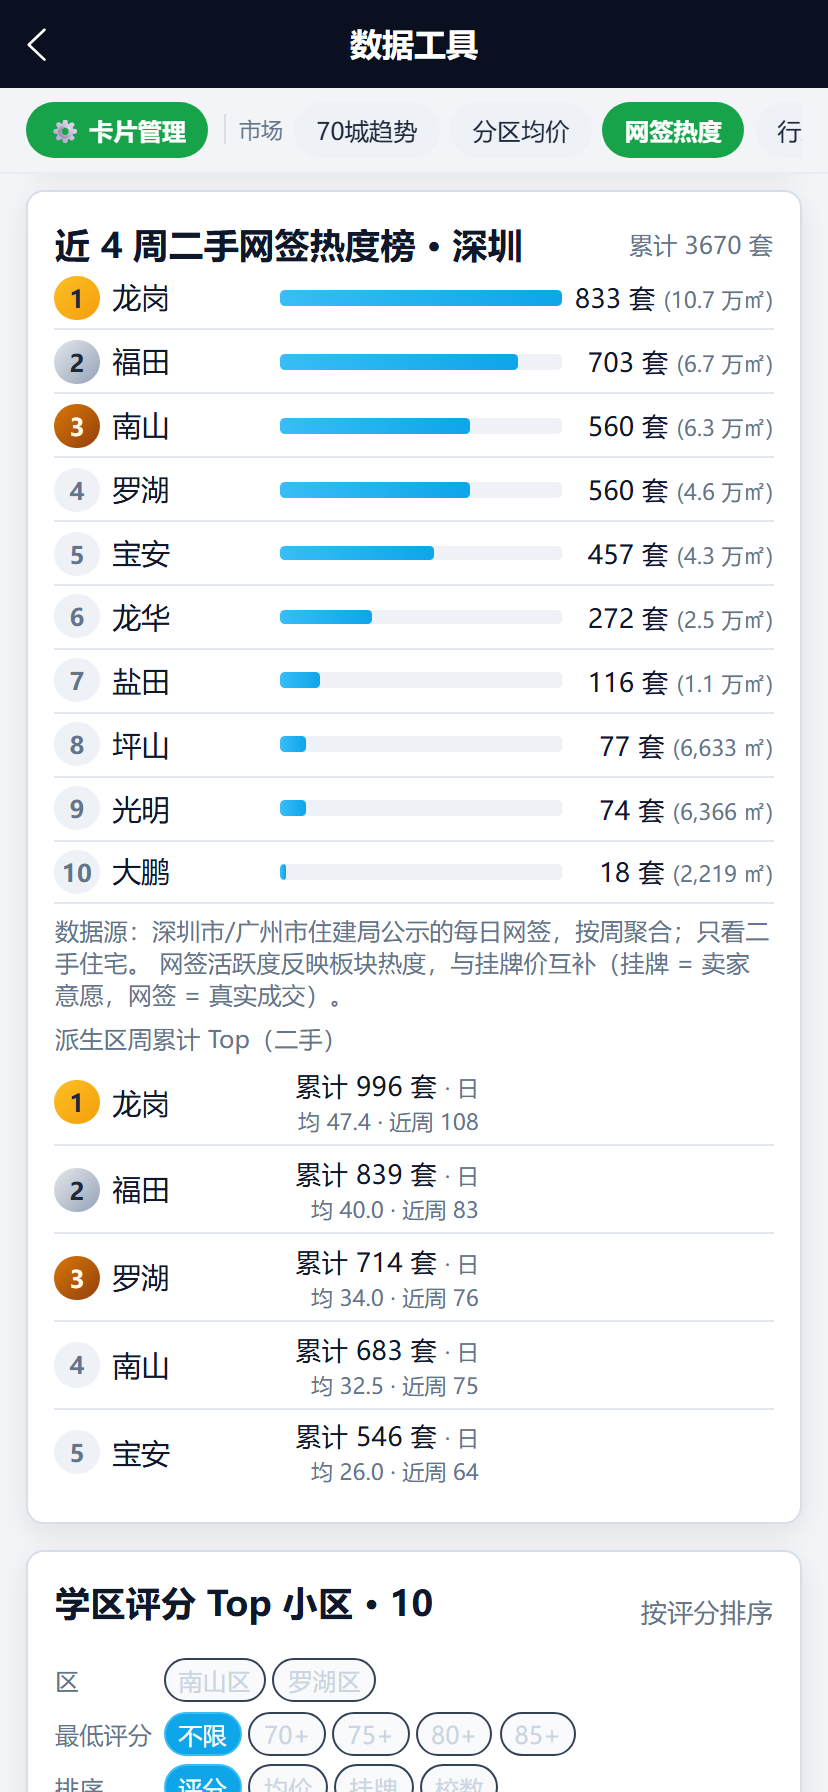
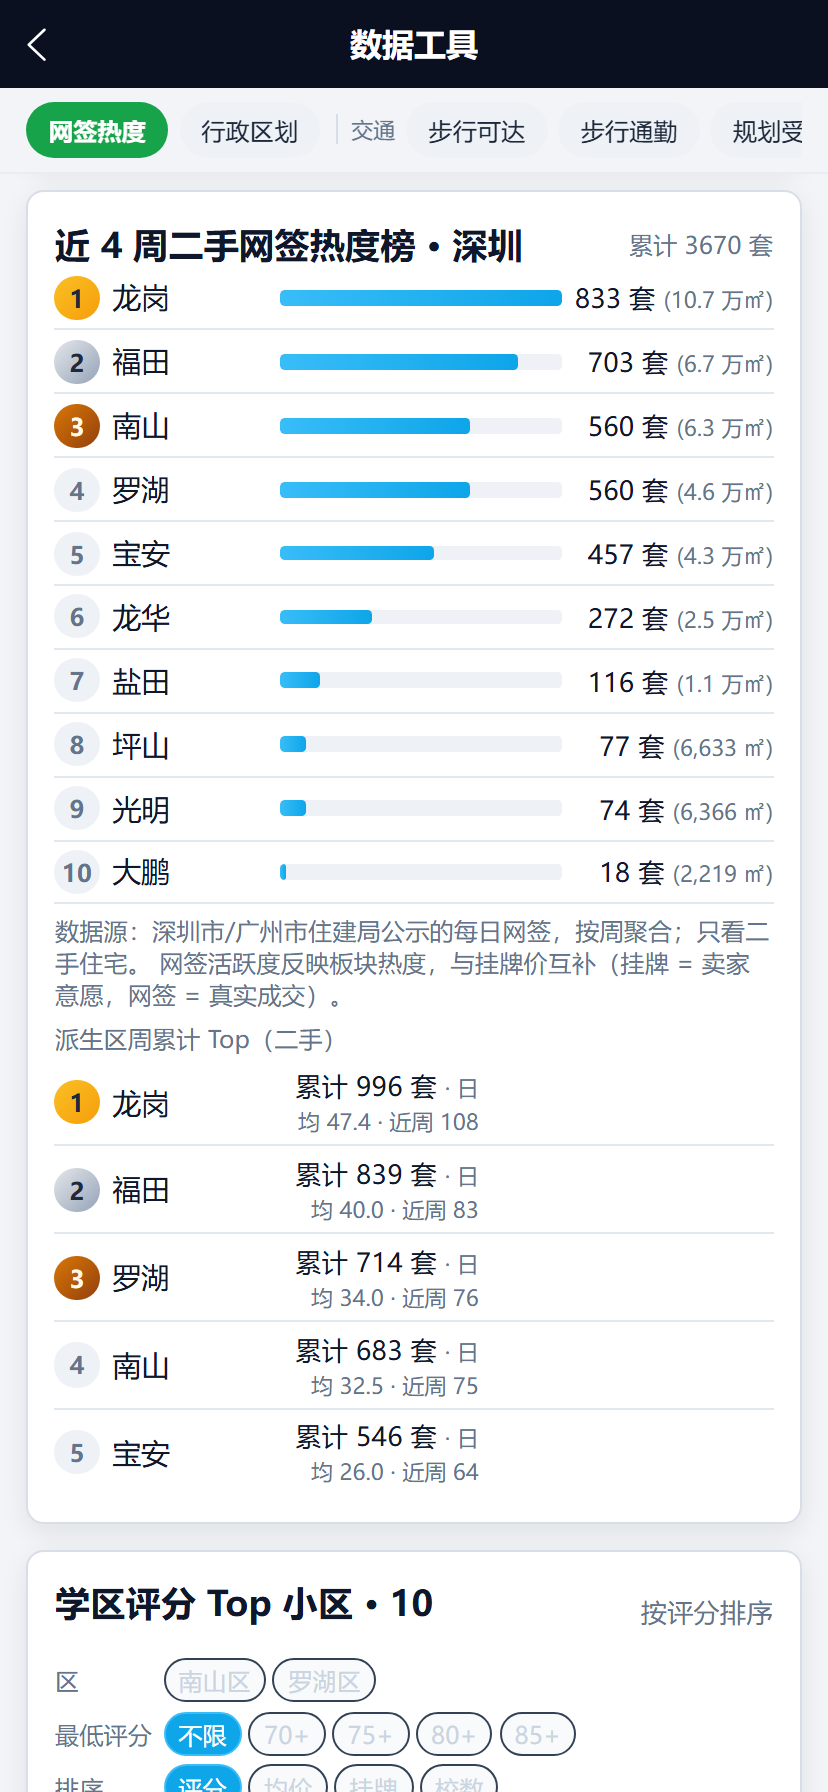
feat(data-tools): v1.123.5 高亮 chip 自动横滚进可视区
- chip 加 id="dt-nav-chip-<anchor>"，watch(activeDtAnchor) 把
  scroll-view 的 scroll-into-view 指向高亮 chip，导航条即时横滚跟随
- 不开 scroll-with-animation：uni-h5 动画实现是 transform + 动画期
  overflow hidden，反选连续点火会反复锁横滚（e2e 实测点击被锁）
- FEATURE_CATALOG F-DTOOLS-01 期望 +1
- ext smoke_data_tools_nav：纯滚动反选用例加「初始视口外 → 反选后
  完整落入导航视口」断言（实测 [355,426]→[13,84] vs 视口 [13,401]）
- 验证：type-check 0 / extended 9/9 / core 13/13 / unit 1457 全绿

Changed region(s): [[0.3925, 0.0312, 0.9662, 0.0938], [0.0604, 0.0312, 0.3623, 0.0938]]

diff --git a/realty_app/src/pages/data-tools/data-tools.vue b/realty_app/src/pages/data-tools/data-tools.vue
@@ -8,7 +8,12 @@
 
       <!-- v1.123.3 锚点分组导航：17 张卡（16 迁移 + 行政区划）按主题分组，点击 chip 滚动到对应卡 -->
       <view class="dt-nav" data-dt-nav>
-        <scroll-view scroll-x class="dt-nav-scroll" :show-scrollbar="false">
+        <scroll-view
+          scroll-x
+          class="dt-nav-scroll"
+          :show-scrollbar="false"
+          :scroll-into-view="dtNavScrollInto"
+        >
           <view class="dt-nav-row">
             <button
               class="dt-nav-chip dt-nav-chip--tool"
@@ -22,6 +27,7 @@
               <button
                 v-for="it in g.items"
                 :key="it.anchor"
+                :id="'dt-nav-chip-' + it.anchor"
                 class="dt-nav-chip"
                 :class="{ 'dt-nav-chip--active': activeDtAnchor === it.anchor }"
                 size="mini"
@@ -1718,6 +1724,15 @@ function teardownDtScrollSpy() {
     _dtSpyRaf = 0;
   }
 }
+
+// v1.123.5 高亮 chip 自动横滚进可视区：active 变化时把 scroll-view 的
+// scroll-into-view 指向对应 chip（同值不重复触发，watch 只在变化时点火）。
+// 不开 scroll-with-animation：uni-h5 动画实现是 transform + 动画期 overflow hidden，
+// 滚动反选连续点火会反复锁横滚，即时跳转更稳。
+const dtNavScrollInto = ref("");
+watch(activeDtAnchor, (a) => {
+  dtNavScrollInto.value = a ? `dt-nav-chip-${a}` : "";
+});
 
 // v1.121.143 Batch 5: feature_premium (迁移自 dashboard)
 const featurePremium = ref<FeaturePremiumResponse | null>(null);

diff --git a/realty_app/src/config.ts b/realty_app/src/config.ts
@@ -12,7 +12,7 @@ export const DEFAULT_API_BASE_URL = "http://localhost:8000";
 
 export const APP_NAME = "Realty App";
 // 与 src/manifest.json 的 versionName 同步；CI 出包时会自动覆写
-export const APP_VERSION = "1.123.4";
+export const APP_VERSION = "1.123.5";
 
 export const STORAGE_KEYS = {
   apiBaseUrl: "realty_app.apiBaseUrl",

diff --git a/realty_app/README.md b/realty_app/README.md
@@ -10,6 +10,7 @@
 
 | 版本 | 发布日期 | 说明 |
 |------|----------|------|
+| v1.123.5 | 2026-11-03 | 数据工具导航高亮 chip 自动横滚：v1.123.4 滚动反选后，纯滚动到右侧组（学区/挂牌）时高亮 chip 仍停在横滚条可视区外看不到反馈 → chip 加 `id="dt-nav-chip-<anchor>"`，`watch(activeDtAnchor)` 把 scroll-view 的 `scroll-into-view` 指向高亮 chip，导航条即时横滚跟随（不开 `scroll-with-animation`：uni-h5 动画实现是 transform + 动画期 overflow hidden，反选连续点火会反复锁横滚；watch 只在变化时点火，同值无抖动）；FEATURE_CATALOG F-DTOOLS-01 期望 +1，ext `smoke_data_tools_nav` 新增「初始在视口外 → 反选后完整落入导航视口」真实断言（versionCode 340） |
 | v1.123.4 | 2026-11-03 | 数据工具页导航滚动反选高亮：v1.123.3 的锚点导航缺「当前位置」反馈 → chip 新增 `dt-nav-chip--active` 主色高亮；H5 端 window scroll + rAF 节流，每次重查 17 个锚点卡（适配 v-if 动态渲染），取「吸顶导航底+8px ~ 视口 60%」带状区最靠上的卡置为 active；点击 chip 即高亮、smooth scroll 中反选接管；keep-alive 场景 onShow 补挂监听、onHide/onUnmounted 摘除（避免其它页白跑）；FEATURE_CATALOG F-DTOOLS-01 期望 +1，ext `smoke_data_tools_nav` 新增点击高亮 + 纯滚动反选真实断言（versionCode 339） |
 | v1.123.3 | 2026-11-03 | 数据工具页锚点分组导航：17 张 `[data-dt-*]` 卡（Batch 1-6 迁入 16 张 + 行政区划）页面过长难定位 → 页头下新增吸顶横滚导航 `[data-dt-nav]`，按「市场/交通/学区/挂牌」四组 chip + ⚙ 卡片管理，点击平滑滚动到对应卡；吸顶用 `top: var(--window-top)` 让出 uni-page-head；滚动定位自算 scrollTop（实测 uni-h5 的 `pageScrollTo` 不透传 `offset`），扣除 page-head + 吸顶导航高度 + 8px 呼吸位，卡顶不被遮挡；目标卡无数据（v-if 未渲染）时 toast 提示不静默失败；FEATURE_CATALOG 新增 F-DTOOLS-01，ext `smoke_data_tools_nav` 真实验证吸顶可见 + 点击滚动 + 卡顶让位（versionCode 338） |
 | v1.123.2 | 2026-11-03 | 首页瘦身收官：dashboard v122 壳层隐藏的最后两张卡正式迁入数据工具页 Batch 6——「近 4 周二手网签热度榜」（`[data-dt-wangqian-rank]`）+「学区评分 Top 小区」含区过滤/最低评分/排序控件（`[data-dt-school-top]`），dashboard 原卡模板与孤儿逻辑（sp* refs/watch、`wangqianPct`、4 个派生 computed、`.spc-*` 样式、失效 ADVANCED_CARDS 条目）全部删除，`hero 市场脉搏` 的网签套数指标保留；卡片管理清单同步划掉两卡（16/16=100%）；两个 e2e（`smoke_school_community`/`smoke_wangqian_heatmap`）从「attached 断言+强制取消隐藏截图」升级为「data-tools 页 visible 真实可见」断言；4 处 buildIntegrity 契约 + 1 处 data-tab 预算契约同步指向新位置；FEATURE_CATALOG F-DASH-06/F-DASH-08 已登记（versionCode 337） |

diff --git a/realty_app/changelog/2026-11-03-v1.123.5-数据工具导航高亮chip自动横滚.md b/realty_app/changelog/2026-11-03-v1.123.5-数据工具导航高亮chip自动横滚.md
@@ -1,0 +1,29 @@
+# v1.123.5（versionCode 340）· 数据工具导航高亮 chip 自动横滚
+
+日期：2026-11-03
+
+## 背景
+
+v1.123.4 加了滚动反选高亮，但导航条本身不会跟随：用户纯滚动到右侧组（如学区「区情画像」）时，高亮的 chip 还停在横滚条可视区外，导航条上看不到高亮反馈，反选的价值打折。上一轮建议第 2 条：高亮 chip 自动横滚跟上。
+
+## 变更
+
+### data-tools.vue
+
+- **模板**：`scroll-view` 增加 `:scroll-into-view="dtNavScrollInto"`；17 个分组 chip 增加 `:id="'dt-nav-chip-' + it.anchor"`（scroll-into-view 只认 id）。
+- **不开 `scroll-with-animation`**：uni-h5 的动画实现是「content transform 过渡 + 动画期容器 `overflow-x: hidden`」，滚动反选在连续滚动中频繁点火会反复锁横滚（e2e 实测 Playwright 点击 chip 时容器被锁 → Element is outside of the viewport），即时跳转无此问题。
+- **脚本**：新增 `dtNavScrollInto` ref；`watch(activeDtAnchor)`——active 变化（点击或滚动反选）时把 scroll-into-view 指向 `dt-nav-chip-<anchor>`，导航条即时横滚把高亮 chip 带进可视区；watch 只在值变化时点火，同值不重复触发无抖动。
+- ⚙ 卡片管理 chip 恒在横滚条最左端，不参与 scroll-into-view。
+
+### 文档 / 测试
+
+- FEATURE_CATALOG **F-DTOOLS-01** 期望补第 5 条（高亮 chip 横滚进导航视口），不期望 +「高亮 chip 被横滚条挡在可视区外」。
+- ext `smoke_data_tools_nav.mjs` 纯滚动反选用例加强：先确认「区情画像」chip 初始在导航视口右侧之外 → 纯滚动触发反选后，断言高亮 chip 完整落入导航视口（chipLeft ≥ svLeft 且 chipRight ≤ svRight）。
+
+## 验证
+
+- `npm run type-check` 0 错误
+- ext `smoke_data_tools_nav.mjs` 单跑 PASS（含横滚跟随断言）
+- extended 全绿、core 全绿无回归
+- `npm test` 全绿
+- 线上 CI tests + build 双 success

diff --git a/realty_app/docs/FEATURE_CATALOG.md b/realty_app/docs/FEATURE_CATALOG.md
@@ -576,9 +576,10 @@
 2. （F）chip 按「市场 / 交通 / 学区 / 挂牌」四组排列 + ⚙ 卡片管理；点击平滑滚动到对应 `[data-dt-*]` 卡，卡顶不被吸顶导航遮挡（让出导航高度 + 8px）  
 3. （F）目标卡无数据（v-if 未渲染）时 toast「该卡片暂无数据」，不静默失败  
 4. （U, F）v1.123.4 起滚动反选：可视带状区（导航下方 ~ 视口 60%）最靠上的卡对应 chip 高亮（`dt-nav-chip--active`）；点击 chip 即高亮，纯滚动也跟随；keep-alive 返回（onShow）后仍生效  
+5. （U, F）v1.123.5 起高亮 chip 自动横滚进可视区：active 变化时 `scroll-into-view` 指向该 chip（`dt-nav-chip-<anchor>`），纯滚动到右侧组（如学区）后导航条跟随，高亮 chip 完整落在导航视口内  
 
-**不期望**：chip 顺序与卡片语义分组错乱；滚动后卡顶被吸顶导航/uni-page-head 盖住；滚动时无当前位置高亮或高亮与实际可视卡不符。  
-**自动化**：ext `smoke_data_tools_nav.mjs`（吸顶可见 + 点击 chip 滚动 + 卡顶让位断言 + 点击/纯滚动 active 反选断言）  
+**不期望**：chip 顺序与卡片语义分组错乱；滚动后卡顶被吸顶导航/uni-page-head 盖住；滚动时无当前位置高亮或高亮与实际可视卡不符；高亮 chip 被横滚条挡在可视区外。  
+**自动化**：ext `smoke_data_tools_nav.mjs`（吸顶可见 + 点击 chip 滚动 + 卡顶让位断言 + 点击/纯滚动 active 反选断言 + 高亮 chip 横滚进导航视口断言）  
 **手工**：数据工具页点「网签热度」chip，页面滚到热度榜且标题完整可见。
 
 ---
